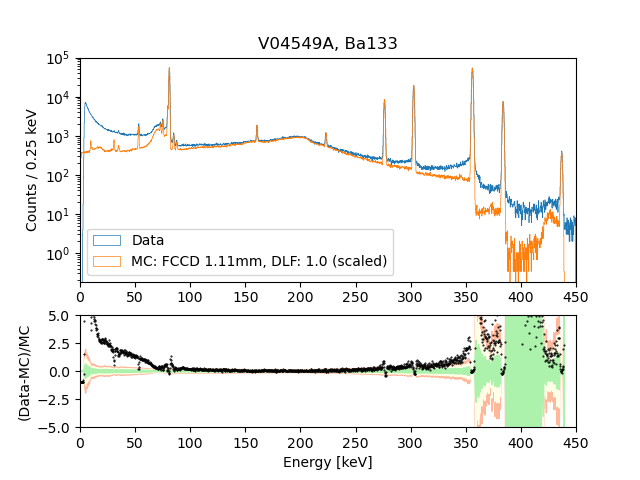
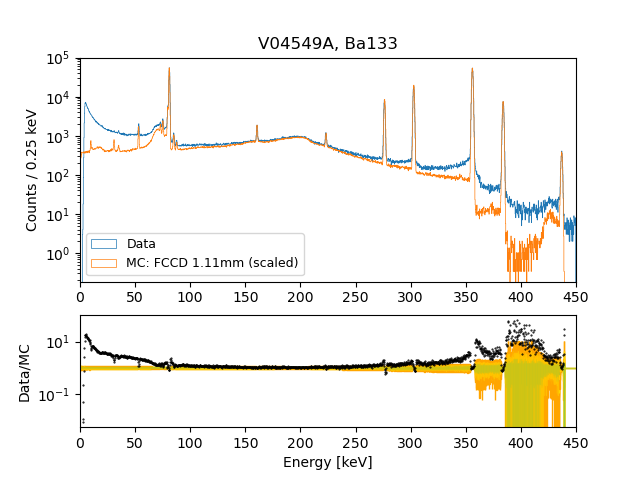
updated poisson error bands

Changed region(s): [[0.0312, 0.6562, 0.9062, 0.9062], [0.125, 0.4688, 0.625, 0.5625], [0.0625, 0.875, 0.125, 0.9062]]

diff --git a/src/plotSpectra.py b/src/plotSpectra.py
@@ -3,6 +3,8 @@ import json
 from matplotlib import gridspec
 from src.calibration import *
 from src.compareResults import lighten_color
+from scipy.stats import poisson, norm
+from matplotlib import patches
 
 def computeDataMCratios(energy_bins_centres, counts_data, counts_MC, scaling_MC=None, residuals = False):
     "compute the ratio of data/MC for 2 histograms (shared energy bins, counts_data and counts_MC)"
@@ -38,6 +40,68 @@ def computeDataMCratios(energy_bins_centres, counts_data, counts_MC, scaling_MC=
 
 
     return Data_MC_ratios, Data_MC_ratios_err
+
+def smallest_poisson_interval(cov, mu):
+
+    res = [mu,mu]
+    mode = math.floor(mu) #start from the mode=integer part of the mean
+    l = mode
+    u = mode
+    prob = poisson.pmf(mode,mu)
+    while (prob < cov):
+        prob_u = poisson.pmf(u+1, mu)
+        l_new=l-1 if l>0 else 0
+        prob_l = poisson.pmf(l_new, mu)
+        # we expand on the right if:
+        #- the lower edge is already at zero
+        #- the prob of the right point is higher than the left
+        if (l == 0 or prob_u > prob_l):
+            u += 1
+            prob += prob_u
+        #otherwhise we expand on the left
+        elif (prob_u < prob_l):
+            l-= 1
+            prob += prob_l
+        #if prob_u == prob_l we expand on both sides
+        else:
+            u += 1
+            l -= 1
+            prob += prob_u + prob_l
+    l_n=0 if l==0 else l-0.5
+    res = [l_n, u+0.5]
+    return res
+
+def draw_poisson_bands(mu, x_low, x_size, residuals = False):
+
+    sig1 = smallest_poisson_interval(0.682, mu)
+    sig2 = smallest_poisson_interval(0.954, mu)
+    sig3 = smallest_poisson_interval(0.997, mu)
+
+    if (residuals) :
+        if (mu != 0):
+            sig1[0] /= mu
+            sig1[1] /= mu
+            sig2[0] /= mu
+            sig2[1] /= mu
+            sig3[0] /= mu
+            sig3[1] /= mu
+        else:
+            sig1[0] = sig1[1] = 1
+            sig2[0] = sig2[1] = 1
+            sig3[0] = sig3[1] = 1
+
+    cent_b1 = (sig1[1] + sig1[0])/2
+    cent_b2 = (sig2[1] + sig2[0])/2
+    cent_b3 = (sig3[1] + sig3[0])/2
+
+    xdw = x_low
+    xup = x_low + x_size
+
+    box_b1 = patches.Rectangle((xdw, sig1[0]), width=abs(xup-xdw),height=abs(sig1[1]-sig1[0]),color='yellowgreen')
+    box_b2 = patches.Rectangle((xdw, sig2[0]), width=abs(xup-xdw),height=abs(sig2[1]-sig2[0]), color='gold')
+    box_b3 = patches.Rectangle((xdw, sig3[0]), width=abs(xup-xdw),height=abs(sig3[1]-sig3[0]), color='orange')
+
+    return box_b1, box_b2, box_b3
 
 
 def plotSpectra(detector, source, MC_id, sim_path, FCCD, DLF, data_path, calibration, energy_filter, cuts, run):
@@ -125,26 +189,33 @@ def plotSpectra(detector, source, MC_id, sim_path, FCCD, DLF, data_path, calibra
     linewidth = 0.35 if binwidth<0.2 else 0.5
     counts_data, bins, bars_data = ax0.hist(energy_data, bins=bins,  label = "Data", histtype = 'step', linewidth = linewidth)
     scaling_MC = C_scale_data/C_scale_MC #scaling of MC
-    counts_MC, bins, bars = ax0.hist(energy_MC, bins = bins, weights=(scaling_MC)*np.ones_like(energy_MC), label = "MC: FCCD "+str(FCCD)+"mm, DLF: "+str(DLF)+" (scaled)", histtype = 'step', linewidth = linewidth)
+    counts_MC, bins, bars = ax0.hist(energy_MC, bins = bins, weights=(scaling_MC)*np.ones_like(energy_MC), label = "MC: FCCD "+str(FCCD)+"mm (scaled)", histtype = 'step', linewidth = linewidth)
 
     #compute ratio of data/MC
-    Data_MC_ratios, Data_MC_ratios_err = computeDataMCratios(bins_centres, counts_data, counts_MC, scaling_MC=scaling_MC, residuals=True)
+    Data_MC_ratios, Data_MC_ratios_err = computeDataMCratios(bins_centres, counts_data, counts_MC, scaling_MC=scaling_MC, residuals=False)
     # ax1.errorbar(bins_centres, Data_MC_ratios, yerr=Data_MC_ratios_err, color="dimgrey", elinewidth = linewidth, fmt='o', ms = 1.0, mew = 1.0)
     # ax1.hlines(0, xlo, xhi, colors="gray", linestyles='dashed', linewidth=linewidth) 
-    
-    # colors = ["lightblue", "lightyellow", "lightsalmon", "lightgreen"]
-    ax1.fill_between(bins_centres, -3*np.array(Data_MC_ratios_err), 3*np.array(Data_MC_ratios_err), label=r'3$\sigma$', color=lighten_color("lightsalmon",0.75))
-    ax1.fill_between(bins_centres, -2*np.array(Data_MC_ratios_err), 2*np.array(Data_MC_ratios_err), label=r'2$\sigma$', color=lighten_color("lightyellow", 0.75))
-    ax1.fill_between(bins_centres, -1*np.array(Data_MC_ratios_err), Data_MC_ratios_err, label=r'1$\sigma$', color=lighten_color("lightgreen", 0.75))
+    # ax1.fill_between(bins_centres, -3*np.array(Data_MC_ratios_err), 3*np.array(Data_MC_ratios_err), label=r'3$\sigma$', color=lighten_color("lightsalmon",0.75))
+    # ax1.fill_between(bins_centres, -2*np.array(Data_MC_ratios_err), 2*np.array(Data_MC_ratios_err), label=r'2$\sigma$', color=lighten_color("lightyellow", 0.75))
+    # ax1.fill_between(bins_centres, -1*np.array(Data_MC_ratios_err), Data_MC_ratios_err, label=r'1$\sigma$', color=lighten_color("lightgreen", 0.75))
+    # ax1.plot(bins_centres, Data_MC_ratios, marker="o",color="black", linestyle='None', ms=0.5)
+    # # ax1.set_ylabel(r'(Data-MC)/MC')
+    # # ax1.set_ylim(-5,5)
+
+    #NEW BANDS
     ax1.plot(bins_centres, Data_MC_ratios, marker="o",color="black", linestyle='None', ms=0.5)
-    ax1.set_ylabel(r'(Data-MC)/MC')
-    ax1.set_ylim(-5,5)
-    # ax1.legend()
-    
+    for c,b,l, in zip(counts_MC, bins, pgh.get_bin_widths(bins)):
+        box1b, box2b, box3b = draw_poisson_bands(c,b,l,True)
+        ax1.add_patch(box3b)
+        ax1.add_patch(box2b)
+        ax1.add_patch(box1b)
+    ax1.set_yscale("log")
+    ax1.set_ylabel("Data/MC")
+
     plt.xlabel("Energy [keV]")
     ax0.set_ylabel("Counts / "+str(binwidth)+" keV")
     ax0.set_yscale("log")
-    ax0.legend(loc = "lower left")
+    ax0.legend(loc = "lower left", fontsize=9)
     ax0.set_title(detector+", "+source)
     ax1.set_xlim(xlo,xhi)
     ax0.set_xlim(xlo,xhi)
@@ -156,7 +227,7 @@ def plotSpectra(detector, source, MC_id, sim_path, FCCD, DLF, data_path, calibra
     else:
         plt.savefig(outputFolder+"DataMC_"+MC_id+"_"+energy_filter+"_run"+str(run)+"_cuts.png")
 
-    # plt.show()
+    plt.show()
     print("done")
 
 
@@ -199,7 +270,7 @@ def plotSpectra_nosmear(detector, source, MC_id, sim_path):
     xhi = 450 if source == "Ba133" else 120
     bins = np.arange(xlo,xhi,binwidth)
     bins_centres = (bins[:-1] + bins[1:])/2
-    
+     
     fig = plt.figure()
 
     linewidth = 1

diff --git a/src/GammaLineCounting.py b/src/GammaLineCounting.py
@@ -85,7 +85,7 @@ def triple_gauss_double_step_pdf(x, a, mu1, sigma1, bkg1, s1, mu2, sigma2, a3, m
     return f
     
 
-def perform_gammaLineCounting(detector, source, spectra_type, data_path=None, calibration=None, energy_filter=None, cuts=None, run=None, sim_path=None, MC_id=None):
+def perform_gammaLineCounting(detector, source, spectra_type, data_path=None, calibration=None, energy_filter=None, cuts=None, run=None, sim_path=None, MC_id=None, returnMCpeakHist=False):
     """
     Perform the gammaline counting on relevant gammaline peaks in Ba or Am, data or MC spectra
     main args: 
@@ -106,6 +106,9 @@ def perform_gammaLineCounting(detector, source, spectra_type, data_path=None, ca
 
     if spectra_type == "MC" and (sim_path is None or MC_id is None):
         print("Need input args of <sim_path> and/or <MC_id>")
+        sys.exit()
+    if spectra_type != "MC" and returnMCpeakHist==True:
+        print("Need spectra_type=MC for returnMCpeakHist")
         sys.exit()
     if spectra_type == "data" and (data_path is None or calibration is None or energy_filter is None or cuts is None or run is None):
         print("Need input args of <data_path>, <calibration>, <energy_filter>, <cuts>, <run> ")
@@ -134,6 +137,8 @@ def perform_gammaLineCounting(detector, source, spectra_type, data_path=None, ca
         energies = energy_filter_data*m + c
     
     if spectra_type == "MC":
+
+        FCCD_str = MC_id.split("FCCD")[1].split("mm")[0]
 
         #initialise directories for detectors to save
         outputFolder = dir+"/../results/PeakCounts/"+detector+"/"+source+"/MC/plots/"
@@ -177,6 +182,11 @@ def perform_gammaLineCounting(detector, source, spectra_type, data_path=None, ca
         #prepare histogram
         print(str(peaks[index]), " keV")
         xmin, xmax = i[0], i[1]
+        # if detector == "V07646A" and source == "Ba133" and peaks[index]==81:
+        #     if FCCD_str == "1.25":
+        #         xmin, xmax = 78.5, 82.5
+        #     elif FCCD_str == "1.5":
+        #         xmin, xmax = 78, 82.5
         bins_peak = np.arange(xmin,xmax,binwidth)
         hist_peak, bins_peak, var_peak = histograms.get_hist(energies, bins=bins_peak)
         bins_centres_peak = histograms.get_bin_centers(bins_peak)
@@ -188,6 +198,11 @@ def perform_gammaLineCounting(detector, source, spectra_type, data_path=None, ca
         hist_peak, bins_centres_peak, yerr  = hist_peak[mask], bins_centres_peak[mask], yerr[mask]
         bins_peak = bins_centres_peak- 0.5*binwidth
         bins_peak = np.append(bins_peak, bins_peak[-1]+binwidth)
+
+        if returnMCpeakHist == True:
+            print("returning MC peak hist only")
+            return hist_peak, bins_peak, bins_centres_peak, peaks[index]
+            continue
 
         #fit function initial guess
         if peaks[index] == 81: #Ba double peak
@@ -235,10 +250,9 @@ def perform_gammaLineCounting(detector, source, spectra_type, data_path=None, ca
         if (chi_sq/dof > 50 or m.valid == False)and source =="Ba133": #repeat fit with no bounds if bad
             print("refitting...")
             m = Minuit(least_squares, *fitting_func_guess)
-            if detector != "V05266B" or detector !="V07646A": #problematic fitting for these detectors
+            if detector != "V05266B": #problematic fitting for these detectors
                 m.limits = bounds
             m.simplex().migrad(ncall=10**9, iterate=10000)
-            # m.migrad(ncall=10**9, iterate=10000) 
             m.hesse()
             chi_sq = m.fval
             dof =  len(bins_centres_peak) - m.nfit
@@ -385,7 +399,12 @@ def perform_gammaLineCounting(detector, source, spectra_type, data_path=None, ca
                 with open(outputFolder+"../PeakCounts_"+detector+"_"+energy_filter+"_run"+str(run)+"_cuts"+str(sigma_cuts)+"sigma.json", "w") as outfile:
                     json.dump(PeakCounts, outfile, indent=4)
 
-            
+
+def compareMCGammaLines(detector, source, sim_path=None, MC_id=None):
+
+    spectra_type="MC"
+    returnMCpeakHist=True
+    peak_list = [81, 356]
 
 
 

diff --git a/processDetectors.py b/processDetectors.py
@@ -30,11 +30,11 @@ def main():
     Gamma_line_count_MC = False #Pre-reqs: needs AV post processed MC for range of FCCDs
     Calculate_FCCD = False #Pre-reqs: needs gammaline counts for data and MC
     Gamma_line_count_MC_bestfitFCCD = False #Pre-reqs: needs AV postprocessed MC for best fit FCCD
-    PlotSpectra = False #Pre-reqs: needs all above stages
+    PlotSpectra = True #Pre-reqs: needs all above stages
 
     #Optional Scripts
     PlotSpectra_nosmear = False
-    PlotMCHits = True
+    PlotMCHits = False
     #====================================================
 
     if source == "Ba133":
@@ -61,6 +61,7 @@ def main():
 
         for ind, detector in enumerate(detectors):
 
+            # if detector != "V07646A":
             if detector != "V04549A":
                 continue
 
@@ -104,6 +105,9 @@ def main():
                 if source == "Ba133":
                     FCCD_list=[0.0,0.25, 0.5, 0.75, 1.0, 1.25, 1.5, 3.0] #ICPCs
                     # FCCD_list=[0.0,0.25, 0.5, 0.75, 1.0, 1.25, 1.5,1.75,2.0, 3.0] #BEGes
+                    if detector == "V07646A":
+                        # FCCD_list = [0.0,0.25, 0.5, 0.75, 1.0, 1.25, 1.5, 1.75, 2.0, 2.5, 3.0]
+                        FCCD_list = [0.0,0.1,0.2,0.3,0.4,0.5, 0.6,0.7,0.8,0.9,1.0,1.1,1.2,1.3,1.4,1.5,1.6,1.7,1.8,1.9,2.0,2.1,2.2,2.3,2.4,2.5]
                 elif source == "Am241_HS1":
                     FCCD_list=[0.0, 0.1, 0.2, 0.3, 0.4, 0.5, 0.6, 0.7, 0.8, 0.9, 1.0, 1.1, 1.2, 1.3, 1.4, 1.5, 1.6, 1.7, 1.8, 1.9, 2.0]
                 for FCCD in FCCD_list:

diff --git a/src/FCCD.py b/src/FCCD.py
@@ -100,6 +100,9 @@ def calculateFCCD(detector, source, MC_id, smear, TL_model, frac_FCCDbore, energ
     if source == "Ba133":
         FCCD_list=[0.0,0.25, 0.5, 0.75, 1.0, 1.25, 1.5, 3.0] #ICPCs
         # FCCD_list=[0.0,0.25, 0.5, 0.75, 1.0, 1.25, 1.5,1.75,2.0, 3.0] #BEGes
+        if detector == "V07646A":
+            # FCCD_list = [0.0,0.25, 0.5, 0.75, 1.0, 1.25, 1.5, 1.75, 2.0, 2.5, 3.0]
+            FCCD_list = [0.0,0.1,0.2,0.3,0.4,0.5, 0.6,0.7,0.8,0.9,1.0,1.1,1.2,1.3,1.4,1.5,1.6,1.7,1.8,1.9,2.0,2.1,2.2,2.3,2.4,2.5]
     elif source == "Am241_HS1":
         FCCD_list=[0.0, 0.1, 0.2, 0.3, 0.4, 0.5, 0.6, 0.7, 0.8, 0.9, 1.0, 1.1, 1.2, 1.3, 1.4, 1.5, 1.6, 1.7, 1.8, 1.9, 2.0]
     
